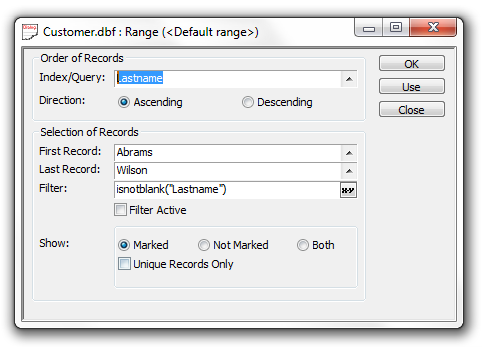
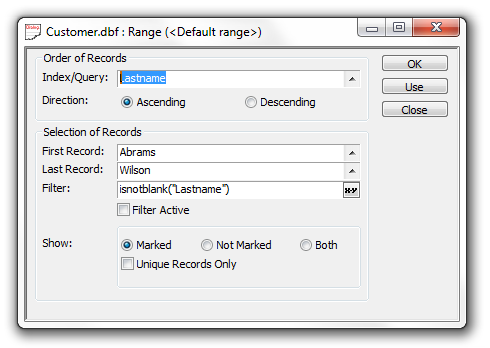
image

diff --git a/helpfiles/Desktop/Guide/Design/Data/DBF/Copying Selected Records from another Table.html b/helpfiles/Desktop/Guide/Design/Data/DBF/Copying Selected Records from another Table.html
@@ -90,16 +90,14 @@
 	</ol>
 </ol>
 
-<p class=Pix><img src="images/UG_Copy_Selected_Records.gif"
+<p class=Pix>
+<img src="images/UG_Copy_Selected_Records.png"
 					x-maintain-ratio=TRUE
-					style="border: none;
-							width: 549px;
-							height: 298px;
+					style="border: medium none;
+							width: 612px;
+							height: 361px;
 							float: none;
-							border-style: none;
-							border-style: none;"
-					width=549
-					height=298
+							border-top-style:none; border-right-style:none; border-bottom-style:none; border-left-style:none"
 					border=0></p>
 
 

diff --git a/helpfiles/Desktop/Guide/Design/Data/DBF/Applying a Range to a Table.html b/helpfiles/Desktop/Guide/Design/Data/DBF/Applying a Range to a Table.html
@@ -85,16 +85,14 @@
 </li>
 </ol>
 
-<p class=Pix><img src="images/Apply_Range.gif"
+<p class=Pix>
+<img src="images/Apply_Range.png"
 					x-maintain-ratio=TRUE
-					style="border: none;
-							width: 450px;
-							height: 316px;
+					style="border: medium none;
+							width: 501px;
+							height: 346px;
 							float: none;
-							border-style: none;
-							border-style: none;"
-					width=450
-					height=316
+							border-top-style:none; border-right-style:none; border-bottom-style:none; border-left-style:none"
 					border=0></p>
 
 
